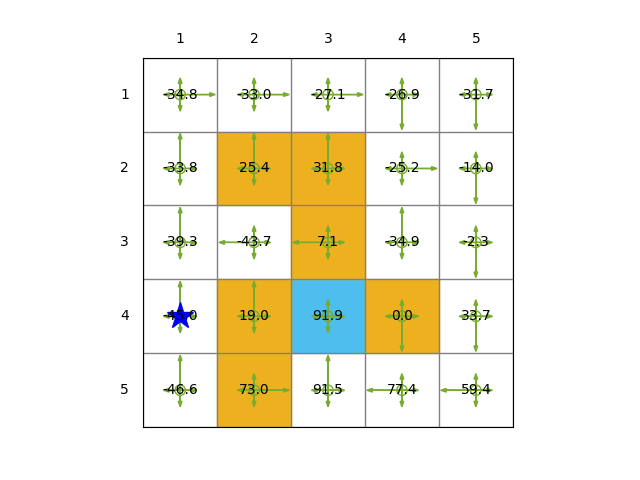
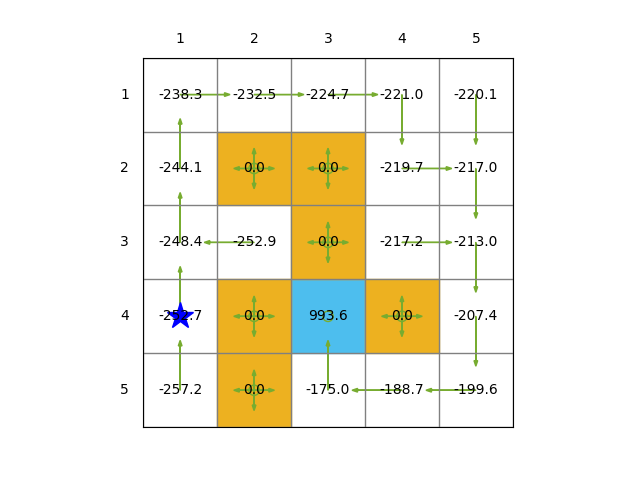
mc_epsilon_greedy

diff --git a/algorithm/mc_epsilon_greedy.py b/algorithm/mc_epsilon_greedy.py
@@ -10,21 +10,22 @@ from tqdm import trange
 
 
 def train(env: GridWorld):
-    discount_rate = 0.95
-    max_iteration = 50
+    discount_rate = 0.99
+    max_iteration = 3
     q_k = {s: dict.fromkeys(env.action_space, 0) for s in env.state_space}  # q_k(s, a) <- q_k[s][a]
     v_pi_k = {s: 0 for s in env.state_space}  # v_k(s) <- v_k[s]
     policy = {s: dict.fromkeys(env.action_space, 1/len(env.action_space)) for s in env.state_space}  # pi(s) <-  policy[s] return a
 
     num = {s: dict.fromkeys(env.action_space, 0) for s in env.state_space}  # Num(s, a) <- num[s][a]
     return_ = {s: dict.fromkeys(env.action_space, 0) for s in env.state_space}  # Return(s, a) <- return[s][a]
-    episode_length = 10000
-    epsilon = 0.5
+    episode_length = 1000000
+    epsilon = 0.6
 
     # train
     for k in trange(max_iteration):
         episode = generate_episode(policy, env, episode_length)
         g = 0  # sample of G_t
+        epsilon = 0.6
         for state, action, reward in reversed(episode):
             g = reward + discount_rate * g
             return_[state][action] += g
@@ -33,6 +34,7 @@ def train(env: GridWorld):
             q_k[state][action] = return_[state][action] / num[state][action]
             # policy improvement
             max_value_action = max(q_k[state], key=lambda _a: q_k[state][_a])
+            epsilon = max(0, epsilon-0.001)
             policy[state][max_value_action] = 1 - epsilon * (mathcal_A(state, env) - 1) / mathcal_A(state, env)
             for a in policy[state].keys():
                 if a != max_value_action:
